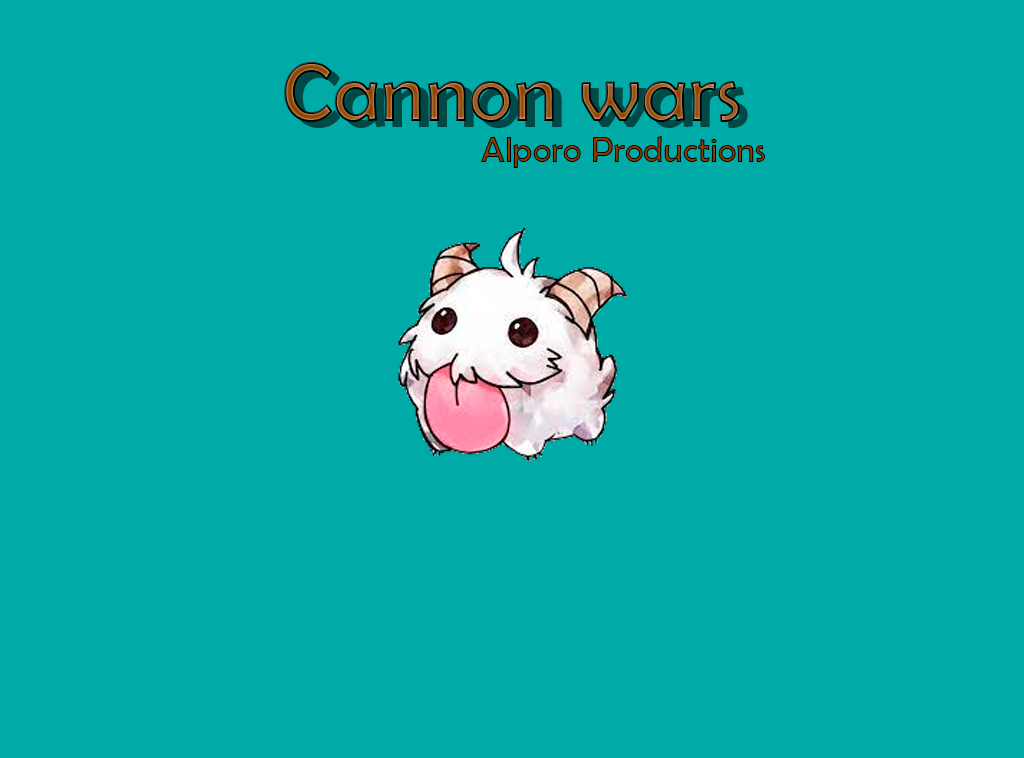
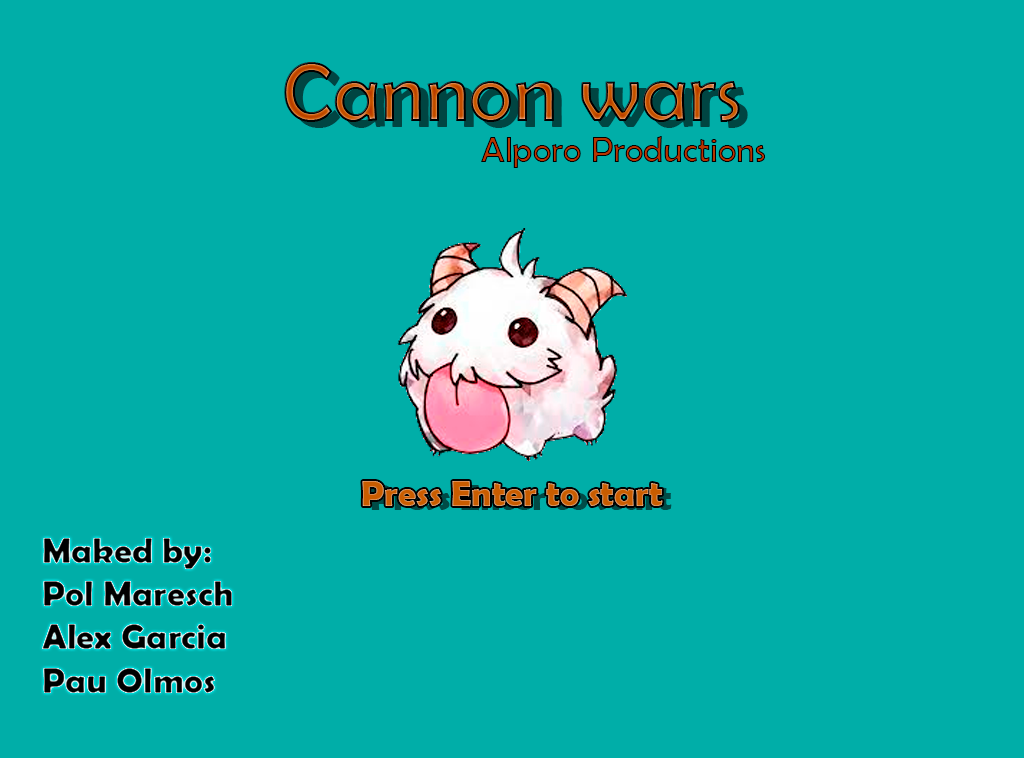
Enter and Win Screen added

diff --git a/TP2/ModulePlayer.cpp b/TP2/ModulePlayer.cpp
@@ -81,14 +81,18 @@ update_status ModulePlayer::Update()
 
 update_status ModulePlayer::PostUpdate()
 {
-	App->physics->CreateCircle(App->physics->ball.X, App->physics->ball.Y, App->physics->ball.radi);
-	App->physics->CreateRectangle(App->physics->Player.X, App->physics->Player.Y, App->physics->Player.Angle);
-	App->physics->CreateRectangle(App->physics->Player2.X, App->physics->Player2.Y, App->physics->Player2.Angle);
-	//textures
-	App->renderer->Blit(Cannon, App->physics->Player.X + 23, App->physics->Player.Y + 23, NULL, 1.0f, App->physics->Player.Angle);
-	App->renderer->Blit(Tank, App->physics->Player.X, App->physics->Player.Y, NULL);
-	App->renderer->Blit(Cannon2, App->physics->Player2.X + 5, App->physics->Player2.Y+23, NULL, 1.0f, App->physics->Player2.Angle);
-	App->renderer->Blit(Tank2, App->physics->Player2.X, App->physics->Player2.Y, NULL);
+	if (App->scene_intro->Fscreen == false && App->physics->Player.dead == false && App->physics->Player2.dead == false)
+	{
+		App->physics->CreateCircle(App->physics->ball.X, App->physics->ball.Y, App->physics->ball.radi);
+		App->physics->CreateRectangle(App->physics->Player.X, App->physics->Player.Y, App->physics->Player.Angle);
+		App->physics->CreateRectangle(App->physics->Player2.X, App->physics->Player2.Y, App->physics->Player2.Angle);
+		//textures
+		App->renderer->Blit(Cannon, App->physics->Player.X + 23, App->physics->Player.Y + 23, NULL, 1.0f, App->physics->Player.Angle);
+		App->renderer->Blit(Tank, App->physics->Player.X, App->physics->Player.Y, NULL);
+		App->renderer->Blit(Cannon2, App->physics->Player2.X + 5, App->physics->Player2.Y + 23, NULL, 1.0f, App->physics->Player2.Angle);
+		App->renderer->Blit(Tank2, App->physics->Player2.X, App->physics->Player2.Y, NULL);
+
+	}
 
 	return UPDATE_CONTINUE;
 }

diff --git a/TP2/ModuleSceneIntro.cpp b/TP2/ModuleSceneIntro.cpp
@@ -17,7 +17,10 @@ bool ModuleSceneIntro::Start()
 {
 	LOG("Loading Intro assets");
 	bool ret = true;
-
+	start = App->textures->Load("Assets/Start.png");
+	end = App->textures->Load("Assets/Win.png");
+	//Terra = App->textures->Load("Assets/Terra.png");
+	//Fondo = App->textures->Load("Assets/Fondo.png");
 	App->renderer->camera.x = App->renderer->camera.y = 0;
 
 	return ret;
@@ -34,11 +37,26 @@ bool ModuleSceneIntro::CleanUp()
 // Update: draw background
 update_status ModuleSceneIntro::Update()
 {
+
+	if (Fscreen == true)
+	{
+		App->renderer->Blit(start, 0, 0, NULL);
+	}
+
+	if (App->input->GetKey(SDL_SCANCODE_RETURN) == KEY_DOWN)
+	{
+		Fscreen = false;
+	}
+	if (App->physics->Player.dead == true || App->physics->Player2.dead == true)
+	{
+		App->renderer->Blit(end, 0, 0, NULL);
+	}
+
 	if (App->input->GetKey(SDL_SCANCODE_F1) == KEY_DOWN)
 	{
 		App->physics->Player.dead = false;
 		App->physics->Player2.dead = false;
-	}
+	}	
 
 	return UPDATE_CONTINUE;
 }

diff --git a/TP2/ModuleSceneIntro.h b/TP2/ModuleSceneIntro.h
@@ -53,8 +53,14 @@ public:
 	bool CleanUp();
 
 public:
+	bool Fscreen = true;
 
 	SDL_Texture* graphics;
+	SDL_Texture* start;
+	SDL_Texture* end;
+	SDL_Texture* Terra;
+	SDL_Texture* Fondo;
+
 	PhysBody* background;
 
 	Bouncer bouncer1;
